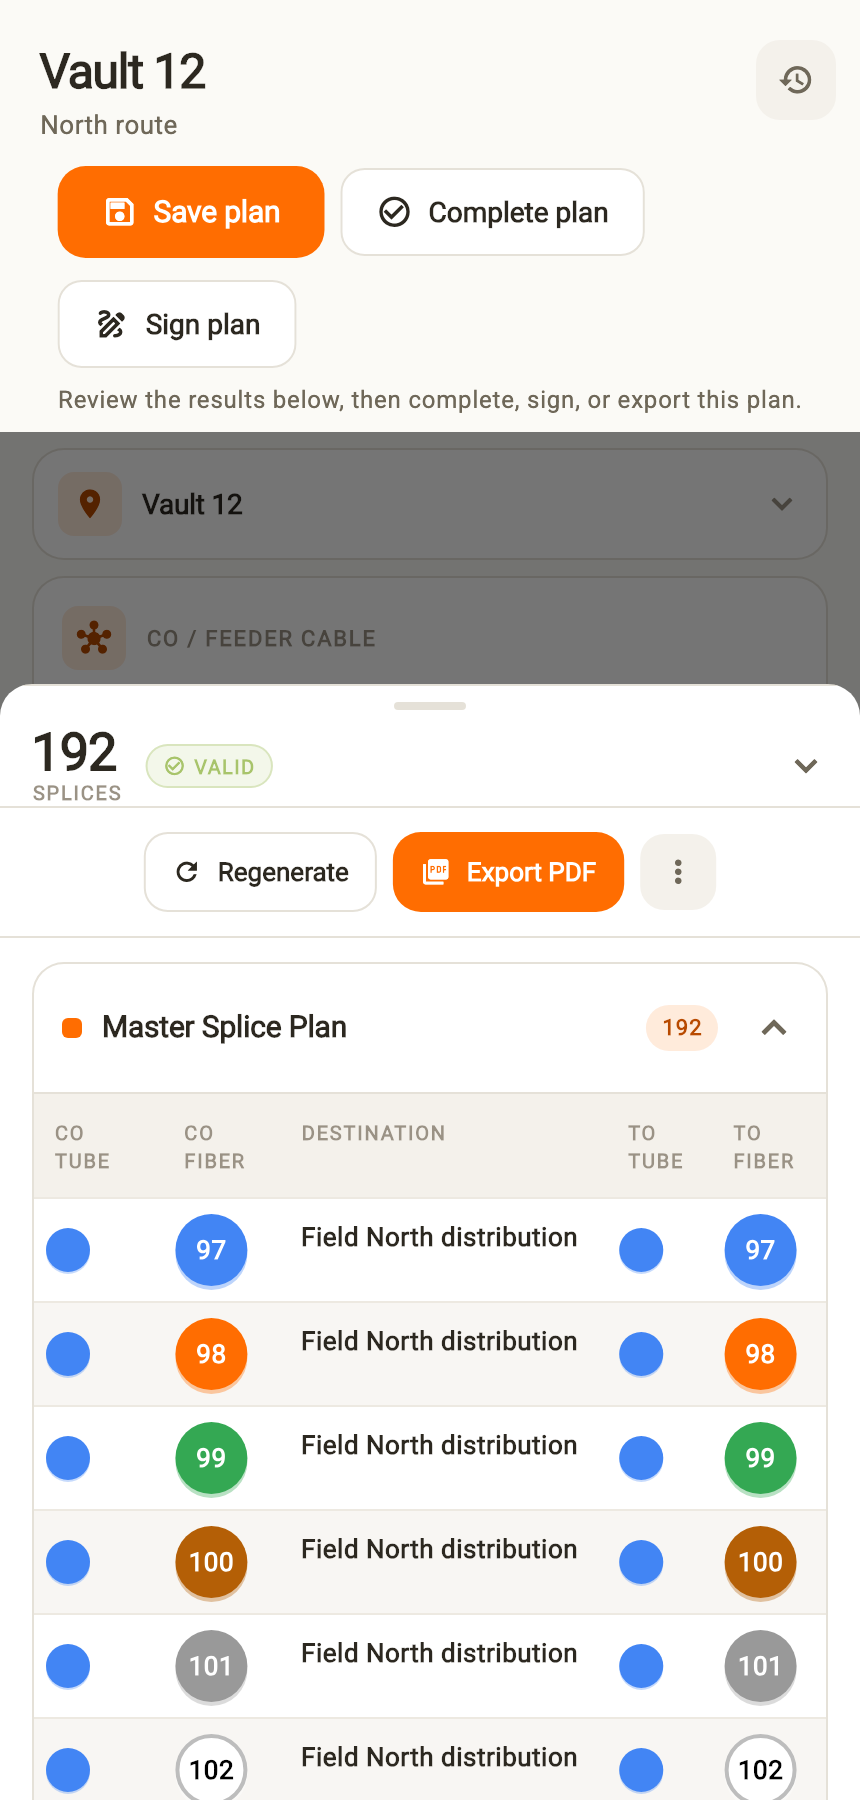
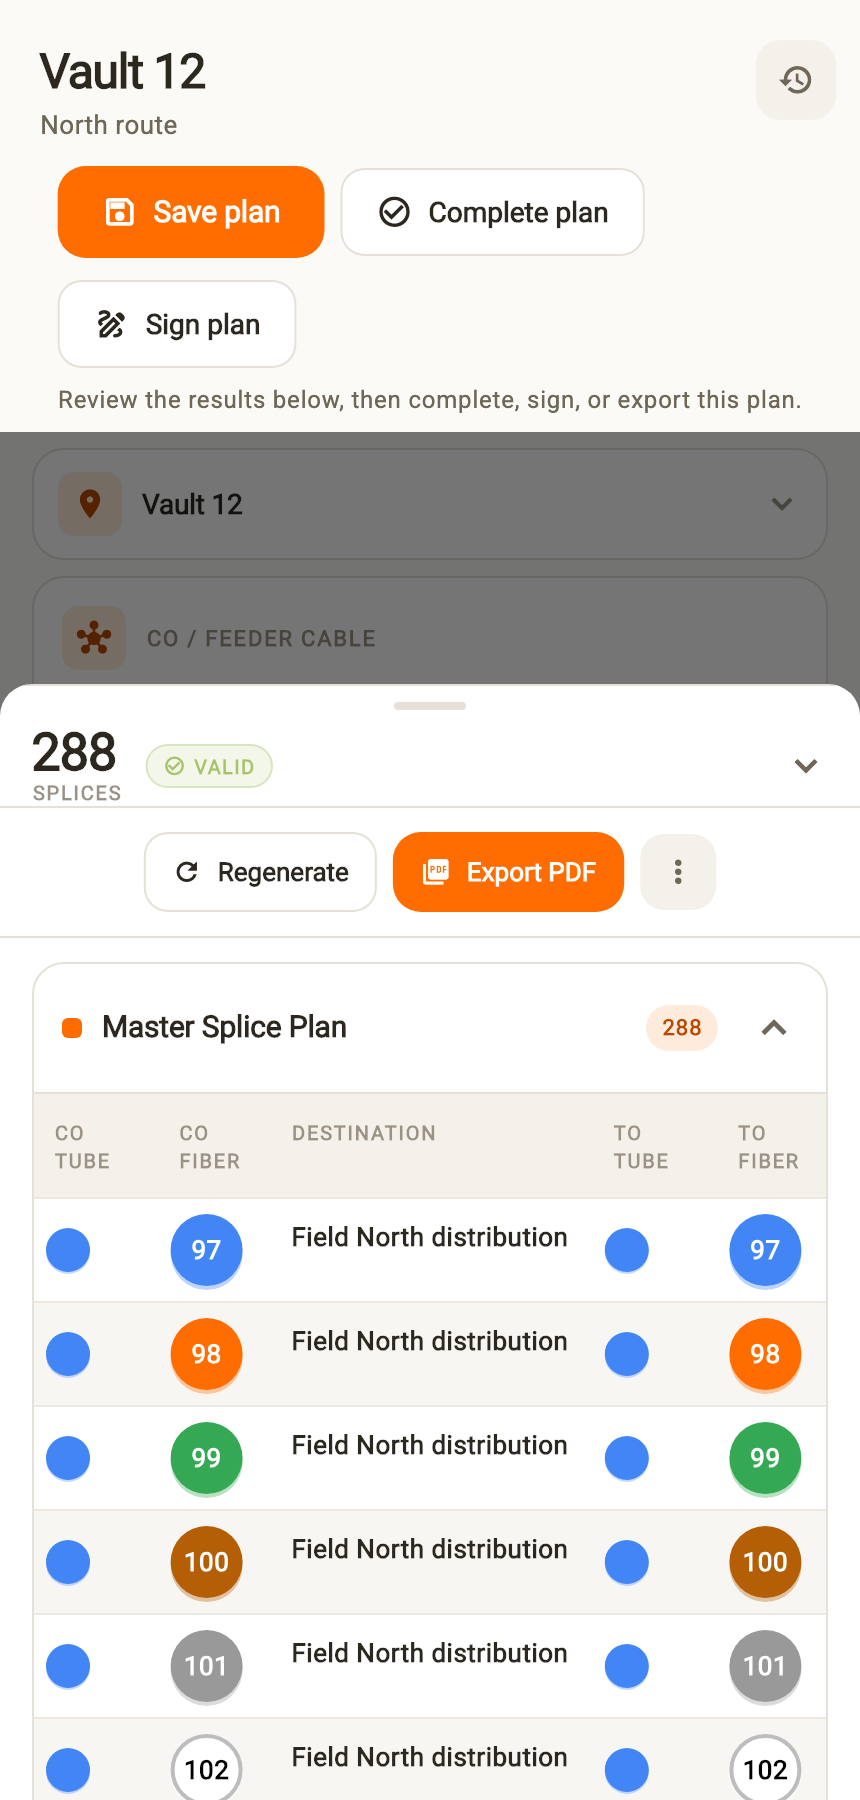
Refresh screenshots with a mixed 288-fiber cable count

diff --git a/index.html b/index.html
@@ -40,8 +40,8 @@
     </div>
     <figure class="app-showcase">
       <div class="app-screens">
-        <a class="app-screen screen-editor" href="/assets/screenshots/plan-editor.png" aria-label="View full screenshot of the plan editor"><img src="/assets/screenshots/plan-editor.png" width="860" height="1800" alt="Fiber Color Code plan editor showing Vault 12, a 192-fiber feeder cable with count 97-108+12XD+121-180+108XD, and the North distribution destination." decoding="async"></a>
-        <a class="app-screen screen-results" href="/assets/screenshots/splice-results.png" aria-label="View full screenshot of the splice results"><img src="/assets/screenshots/splice-results.png" width="860" height="1800" alt="The app’s master splice plan with color-coded tube and fiber assignments, 192 fiber positions, and PDF export." fetchpriority="high" decoding="async"></a>
+        <a class="app-screen screen-editor" href="/assets/screenshots/plan-editor.png?v=f2ea2e2672f4" aria-label="View full screenshot of the plan editor"><img src="/assets/screenshots/plan-editor.png?v=f2ea2e2672f4" width="860" height="1800" alt="Fiber Color Code plan editor showing Vault 12, a 288-fiber feeder cable with count 97-168+24XD+193-264+24XD+289-336+48XD, and the North distribution destination." decoding="async"></a>
+        <a class="app-screen screen-results" href="/assets/screenshots/splice-results.png?v=2e73257bfc4d" aria-label="View full screenshot of the splice results"><img src="/assets/screenshots/splice-results.png?v=2e73257bfc4d" width="860" height="1800" alt="The app’s master splice plan with color-coded tube and fiber assignments, 288 fiber positions, and PDF export." fetchpriority="high" decoding="async"></a>
       </div>
       <figcaption>Inside Fiber Color Code · Sample project shown. Tap a screen to view it full size.</figcaption>
     </figure>
@@ -54,9 +54,9 @@
   <section class="workflow-section wrap" id="workflow" aria-labelledby="workflow-title">
     <div class="section-heading"><div><p class="eyebrow">A clearer way to work</p><h2 id="workflow-title">Plan it. Work it.<br>Put your name on it.</h2></div><p>The splice plan is just the start. Keep the job’s details together through the work and into the handover.</p></div>
     <div class="workflow-grid">
-      <article class="workflow-step"><span class="step-number">01 / PLAN</span><a class="screenshot-detail editor-detail" href="/assets/screenshots/plan-editor.png"><img src="/assets/screenshots/plan-editor.png" width="860" height="1800" alt="The actual plan editor with feeder cable and destination settings." loading="lazy" decoding="async"><span>View app screen <span aria-hidden="true">↗</span></span></a><h3>Start with the cable.</h3><p>Enter your CO cable and destinations to build a color-coded splice plan. Use templates when the next job follows a familiar pattern.</p></article>
-      <article class="workflow-step"><span class="step-number">02 / COORDINATE</span><a class="screenshot-detail results-detail" href="/assets/screenshots/splice-results.png"><img src="/assets/screenshots/splice-results.png" width="860" height="1800" alt="The actual color-coded master splice plan and its PDF export action." loading="lazy" decoding="async"><span>View app screen <span aria-hidden="true">↗</span></span></a><h3>Keep the crew connected.</h3><p>Organize plans in shared workspaces, assign work orders, and record job details. Work with locally saved records and sync when you reconnect.</p></article>
-      <article class="workflow-step"><span class="step-number">03 / HAND OVER</span><a class="screenshot-detail signature-detail" href="/assets/screenshots/technician-signature.png"><img src="/assets/screenshots/technician-signature.png" width="860" height="1800" alt="The actual technician signature screen with the drawing area and Save Signature button." loading="lazy" decoding="async"><span>View app screen <span aria-hidden="true">↗</span></span></a><h3>Finish with a record.</h3><p>Attach photos, capture a signature, and export the work. Give your customer an as-built they can keep and your crew a record they can return to.</p></article>
+      <article class="workflow-step"><span class="step-number">01 / PLAN</span><a class="screenshot-detail editor-detail" href="/assets/screenshots/plan-editor.png?v=f2ea2e2672f4"><img src="/assets/screenshots/plan-editor.png?v=f2ea2e2672f4" width="860" height="1800" alt="The actual plan editor with feeder cable and destination settings." loading="lazy" decoding="async"><span>View app screen <span aria-hidden="true">↗</span></span></a><h3>Start with the cable.</h3><p>Enter your CO cable and destinations to build a color-coded splice plan. Use templates when the next job follows a familiar pattern.</p></article>
+      <article class="workflow-step"><span class="step-number">02 / COORDINATE</span><a class="screenshot-detail results-detail" href="/assets/screenshots/splice-results.png?v=2e73257bfc4d"><img src="/assets/screenshots/splice-results.png?v=2e73257bfc4d" width="860" height="1800" alt="The actual color-coded master splice plan and its PDF export action." loading="lazy" decoding="async"><span>View app screen <span aria-hidden="true">↗</span></span></a><h3>Keep the crew connected.</h3><p>Organize plans in shared workspaces, assign work orders, and record job details. Work with locally saved records and sync when you reconnect.</p></article>
+      <article class="workflow-step"><span class="step-number">03 / HAND OVER</span><a class="screenshot-detail signature-detail" href="/assets/screenshots/technician-signature.png?v=12bd86e77040"><img src="/assets/screenshots/technician-signature.png?v=12bd86e77040" width="860" height="1800" alt="The actual technician signature screen with the drawing area and Save Signature button." loading="lazy" decoding="async"><span>View app screen <span aria-hidden="true">↗</span></span></a><h3>Finish with a record.</h3><p>Attach photos, capture a signature, and export the work. Give your customer an as-built they can keep and your crew a record they can return to.</p></article>
     </div>
   </section>
 

diff --git a/README.md b/README.md
@@ -105,10 +105,13 @@ Facts baked in that need updating if they change:
 
 `assets/screenshots/` contains 860 × 1800 PNG captures of the production Flutter
 `SpliceEditor`, its expanded results sheet, and `SignaturePadModal`. The sample
-project is Vault 12 / North route with a 192-fiber North distribution destination. Both use the count
-`97-108+12XD+121-180+108XD` (72 live fibers and 120 dead positions).
+project is Vault 12 / North route with a 288-fiber North distribution destination. Both use the count
+`97-168+24XD+193-264+24XD+289-336+48XD` (192 live fibers and 96 dead positions).
 These contain no customer records. Captures use the app's light theme, Material
 icons, and Roboto device font fallback (rather than Flutter test square glyphs).
 The homepage frames full captures and links cropped detail previews to their full
 images. Replace captures when the corresponding app UI changes; do not redraw
 screens as mockups or add fictional data as customer evidence.
+
+Screenshot links use content-hash query versions. Refresh each image’s version in
+`index.html` whenever its PNG changes, so returning visitors get the new capture.
